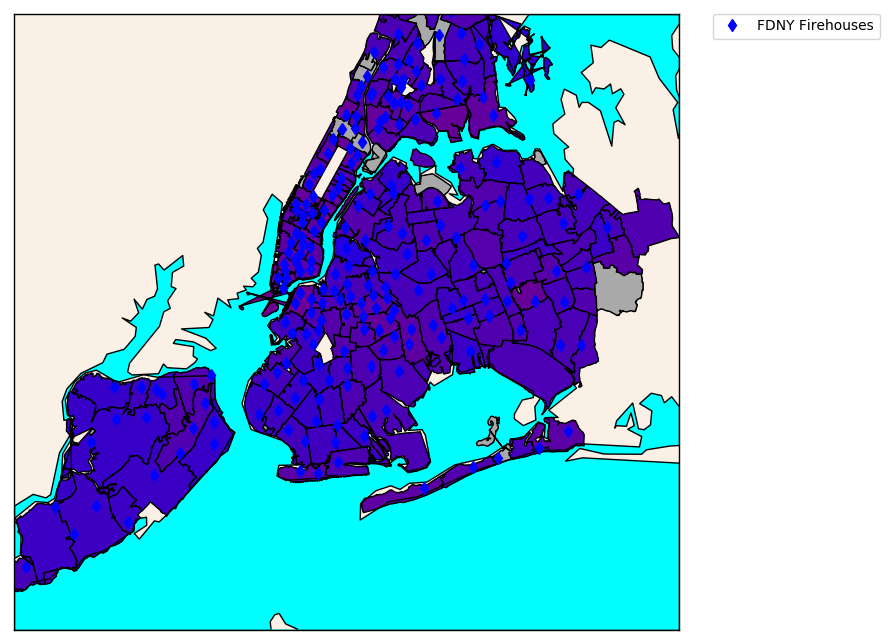
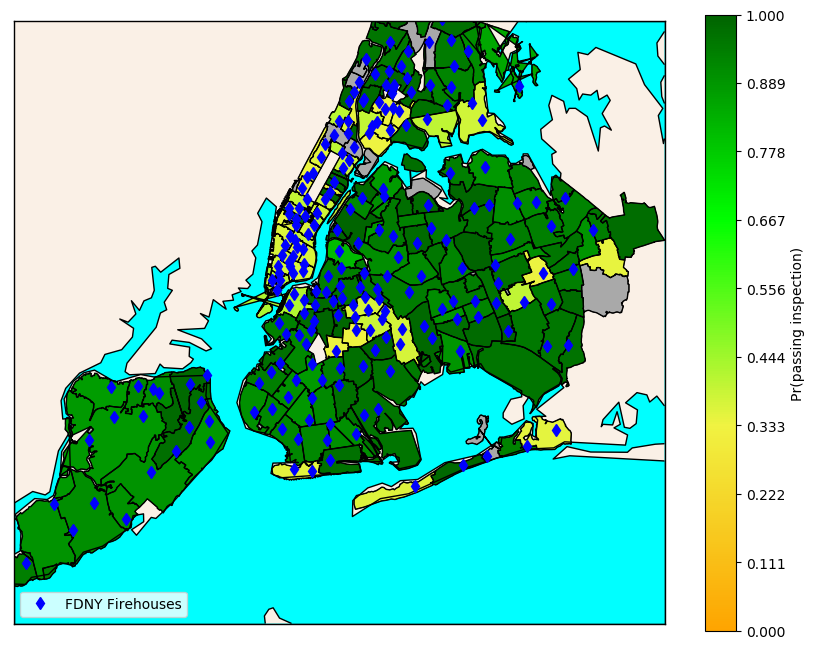
Added colorbar, fixed colors

diff --git a/NY_Visualizer.py b/NY_Visualizer.py
@@ -7,7 +7,9 @@ Final visualizing tool which shows and saves the final plots for each city.
 
 from mpl_toolkits.basemap import Basemap
 from matplotlib.patches import Polygon
+import matplotlib.colors
 import matplotlib.pyplot as plt
+from matplotlib.colors import LinearSegmentedColormap
 from shapely.geometry import Point
 from shapely.geometry.polygon import Polygon as Frontier
 import numpy as np
@@ -46,13 +48,37 @@ def linear_interpol(st_arr, en_arr, ratrat):
     return list(ratrat*(np.array(en_arr) - np.array(st_arr)) + np.array(st_arr))
 
 
+# Allows to interpol a point between several points, depending on where the point is
+# allocs (arr): All the points to interpolate between, only valid for 1D (must be sorted before)
+# intete (arr): Their (^^) equivalent results (must be sorted before)
+# D1var (float): The variable
+
+def multi_interpol(allocs, intete, D1var):
+
+    if len(allocs) != len(intete):
+        raise SyntaxError('len('+str(allocs)+') != len('+str(intete)+')')
+
+    if (D1var < min(allocs)) or (D1var > max(allocs)):
+        raise ValueError('Variable does not fall within interpolation range')
+
+    for qq in range(0, len(allocs)-1):
+        if (D1var >= allocs[qq]) and (D1var <= allocs[qq+1]):
+
+            temp_ipol = (allocs[qq+1]-D1var)/(allocs[qq+1]-allocs[qq])
+            return linear_interpol(intete[qq], intete[qq+1], temp_ipol)
+
+
+
+
+
 # RGB colors
 BLUE_rgb = [0, 0, 256]
 RED_rgb = [256, 0, 0]
 GREEN_rgb = [0, 256, 0]
 WHITE_rgb = [256, 256, 256]
-YELLOW = [241, 244, 66]
-
+YELLOW_rgb = [241, 244, 66]
+ORANGE_rgb = [255,165,0]
+DKGREEN_rgb = [0, 100, 0]
 
 # Firehouses
 
@@ -131,7 +157,6 @@ for Actual_city, CITY in CITIES.items():
     del Allprobs
     print(lowest_ins, upper_ins)
 
-
     # Already anaRED zipcodes
     checked_zips = []
     # Reads the shapefiles one by one
@@ -163,7 +188,9 @@ for Actual_city, CITY in CITIES.items():
 
                     checked_zips.append(this_zip)
                     passin = float(arrow['P(Passing)'])
-                    gradgrad = rat_RGB(linear_interpol(RED_rgb, BLUE_rgb, passin))
+                    gradgrad = rat_RGB(multi_interpol([0, 0.333, 0.667, 1], [ORANGE_rgb, YELLOW_rgb, GREEN_rgb, DKGREEN_rgb],\
+                     passin))
+                    #gradgrad = rat_RGB(linear_interpol(RED_rgb, BLUE_rgb, passin))
 
                     # No need to keep have found the zipcode
                     break
@@ -178,8 +205,16 @@ for Actual_city, CITY in CITIES.items():
         plt.gca().add_patch(polzip)
 
 
-    # Saves the result
-    plt.legend(bbox_to_anchor=(1.05, 1), loc=2, borderaxespad=0.)
+    # Saves the result and creates a colormap
+    cmap11 = LinearSegmentedColormap.from_list('mycmap', [rat_RGB(ORANGE_rgb), rat_RGB(YELLOW_rgb), rat_RGB(GREEN_rgb), rat_RGB(DKGREEN_rgb)])
+    img = plt.imshow(np.array([[0, 1]]), cmap=cmap11) # Dummy image that is not plotted
+    img.set_visible(False)
+    plt.colorbar(orientation="vertical", label = 'Pr(passing inspection)', ticks = np.linspace(0, 1, 10))
+
+    del img
+    gc.collect()
+
+    plt.legend()
     plt.savefig(Actual_city.replace(' ', '_')+'___original', frameon = False, bbox_inches='tight')
 
 
